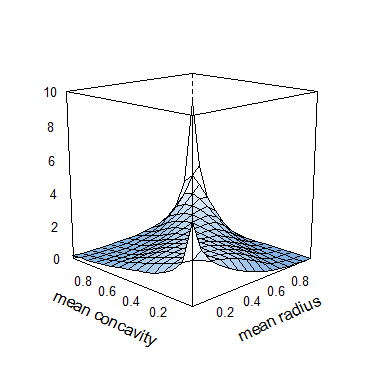
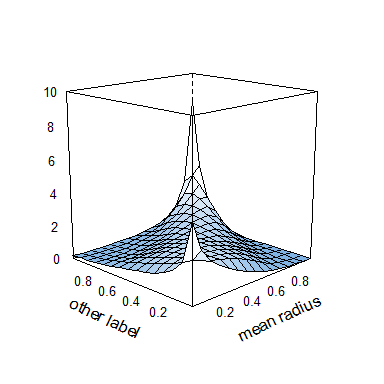
README: change y axis label in wireframe

Changed region(s): [[0.125, 0.75, 0.4062, 0.9062]]

diff --git a/README.md b/README.md
@@ -124,8 +124,8 @@ plot(kde.fit,
      size = 15,  # reduce grid size
      zlim = c(0, 10),  # z-axis limits
      screen = list(x = -75, z = 45),  # rotate screen
-     xlab = list(rot =  25),  # labels have to be rotated as well
-     ylab = list(rot = -25))  
+     xlab = list(rot = 25),  # labels have to be rotated as well
+     ylab = list(label = "other label", rot = -25))  
 ```
 
 ![](inst/README-unnamed-chunk-9-1.png)
